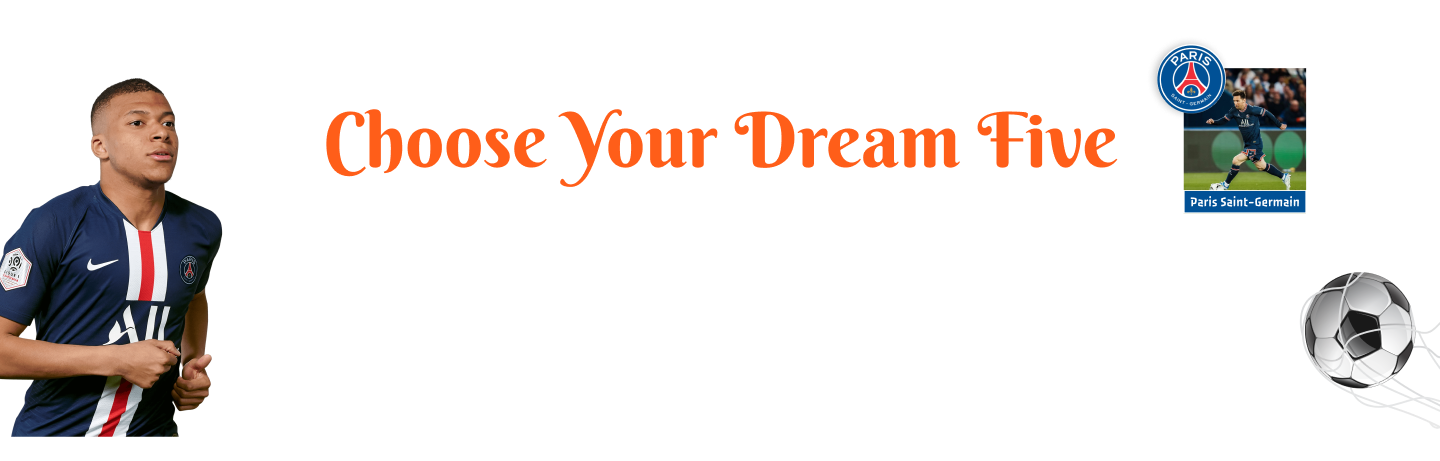
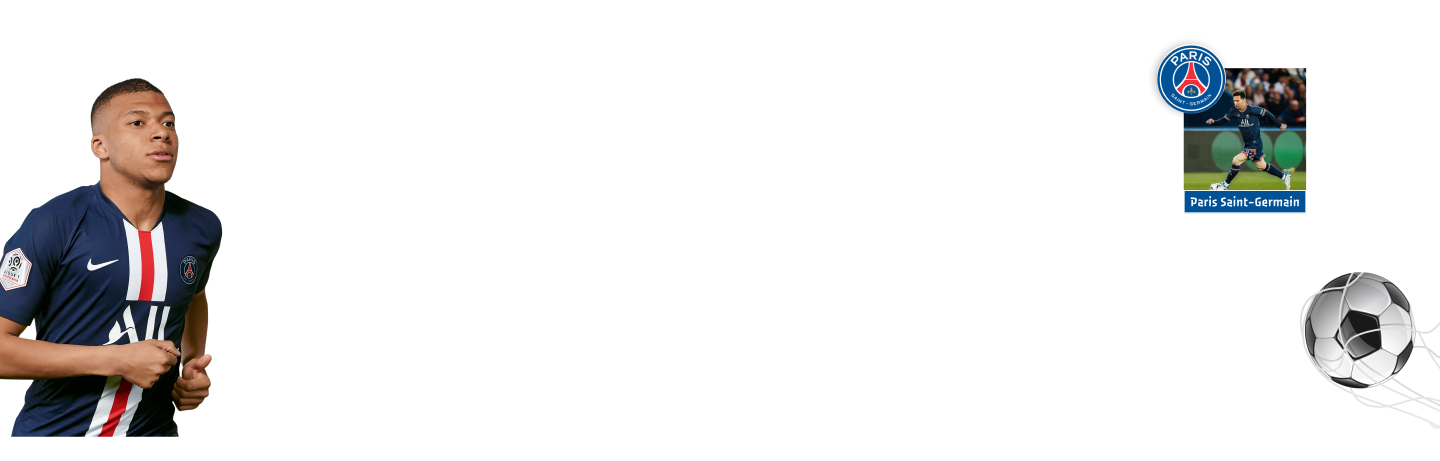
responsive done

Changed region(s): [[0.2188, 0.243, 0.7812, 0.3948], [0.375, 0.3948, 0.4062, 0.4252]]

diff --git a/index.html b/index.html
@@ -6,26 +6,52 @@
     <meta http-equiv="X-UA-Compatible" content="IE=edge">
     <meta name="viewport" content="width=device-width, initial-scale=1.0">
     <title>Player Deals</title>
-    <script src="https://cdn.tailwindcss.com"></script>
+    <!-- google font  -->
+    <link rel="preconnect" href="https://fonts.googleapis.com">
+    <link rel="preconnect" href="https://fonts.gstatic.com" crossorigin>
+    <link href="https://fonts.googleapis.com/css2?family=Berkshire+Swash&family=Poppins:wght@400;500;600&display=swap"
+        rel="stylesheet">
+    <link rel="stylesheet" href="https://cdn.jsdelivr.net/npm/tw-elements/dist/css/index.min.css" />
     <link href="https://cdn.jsdelivr.net/npm/daisyui@2.24.0/dist/full.css" rel="stylesheet" type="text/css" />
-   
+    <script src="https://cdn.tailwindcss.com"></script>
+    <script>
+        tailwind.config = {
+            theme: {
+                extend: {
+                    fontFamily: {
+                        poppins: ['Poppins', 'sans-serif'],
+                        berkshireSwash: ['Berkshire Swash', 'cursive'],
+                    }
+                }
+            }
+        }
+    </script>
 </head>
 
 <body>
     <!-- Carousel Start -->
     <header>
-        <div class="carousel w-100">
-            <div class="carousel-item w-full">
-                <img src="./images/bg-cover-1.png" class="w-full object-cover" alt="Burger" />
+        <div id="carouselExampleCaptions" class="carousel slide relative" data-bs-ride="carousel">
+            <div class="carousel-inner relative w-full overflow-hidden">
+                <div class="carousel-item active relative w-full">
+                    <img src="./images/bg-cover-1.png" class="block w-full object-cover" alt="..." />
+                    <div class="carousel-caption flex flex-col justify-center items-center absolute text-center h-full">
+                        <h5 class="text-xl sm:text-2xl md:text-3xl lg:text-5xl text-amber-400 font-berkshireSwash">Choose Your Dream Players</h5>
+                        <p class="sm:text-base hidden sm:block mx-auto sm:w-3/4 md:text-md lg:text-xl mt-6 font-poppins">Five football experts, all renowned as great football
+                            analysts,</p>
+                        <p class="sm:text-base hidden sm:block mx-auto sm:w-3/4 md:text-md lg:text-xl mt-1 font-poppins">have chosen their top five players of the year for 2022.
+                        </p>
+                    </div>
+                </div>
             </div>
         </div>
     </header>
     <!-- Carousel End -->
 
     <main>
-        <section class="my-14 w-9/12 mx-auto">
-            <div class="flex justify-center gap-4">
-                <div class="grid grid-cols-3 gap-4 w-full">
+        <section class="mt-14 mb-4 p-3 lg:p-8 font-poppins">
+            <div class="sm:flex justify-center gap-2 lg:gap-4">
+                <div class="grid sm:grid-cols-1 md:grid-cols-2 lg:grid-cols-3 gap-4 w-full">
                     <div class="card-compact w-full bg-black shadow-xl border border-1 h-max">
                         <figure><img src="./images/messi.jpg" class="w-100" alt="Shoes" /></figure>
                         <div class="card-body text-center text-white">
@@ -81,7 +107,7 @@
                     <div class="card-compact w-full bg-black shadow-xl border border-1 h-max">
                         <figure><img src="./images/salah.jpg" class="w-100" alt="Shoes" /></figure>
                         <div class="card-body text-center text-white">
-                            <h2 class="text-xl">Mohammed Salah</h2>
+                            <h2 class="text-xl">Mohamed Salah</h2>
                             <div class="flex justify-center mt-2">
                                 <p class="text-base">40 Goals</p>
                                 <p class="text-base">120 Assist</p>
@@ -144,12 +170,12 @@
                         </div>
                     </div>
                 </div>
-                <div class="w-1/2 h-screen">
+                <div class="md:w-1/2 sm:h-screen mt-5 sm:mt-0">
                     <div class="card w-full bg-black text-primary-content overflow-y-auto">
-                        <div class="card-body p-5 mt-2">
+                        <div class="card-body p-2 sm:p-5 mt-2">
                             <h2 class="text-center text-xl">Selected Five</h2>
                             <div class="overflow-x-auto mt-2">
-                                <table class="table table-zebra w-full">
+                                <table class="table table-zebra table-normal w-full">
                                     <tbody id="selected-players">
                                     </tbody>
                                 </table>
@@ -197,8 +223,8 @@
             </div>
         </section>
     </main>
-    <hr class="border-x-2 border-white cursor-pointer mt-20"/>
-    <footer class="mt-10 mb-8 divide-white">
+    <hr class="border-x-2 border-white cursor-pointer sm:mt-20" />
+    <footer class="mt-6 sm:mt-10 mb-8">
         <p class="text-center">Copyright @ 2022 All Rights Reserved.</p>
     </footer>
     <script src="./js/utilities.js"></script>

diff --git a/js/utilities.js b/js/utilities.js
@@ -5,6 +5,11 @@ function getInputValueById(inputId) {
         document.getElementById(inputId).value = '';
         return;
     }
+    else if (inputField < 0) {
+        alert('Input the positive Number');
+        document.getElementById(inputId).value = '';
+        return;
+    }
     else {
         return inputField;
     }
